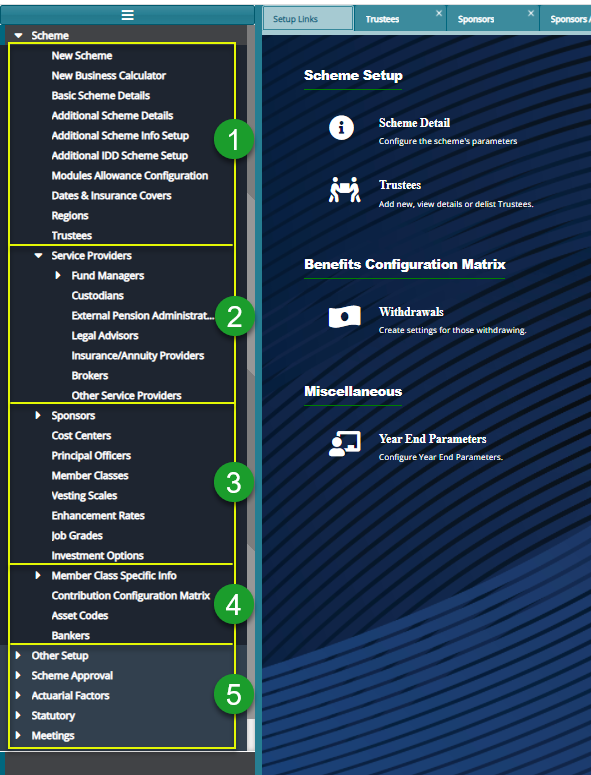
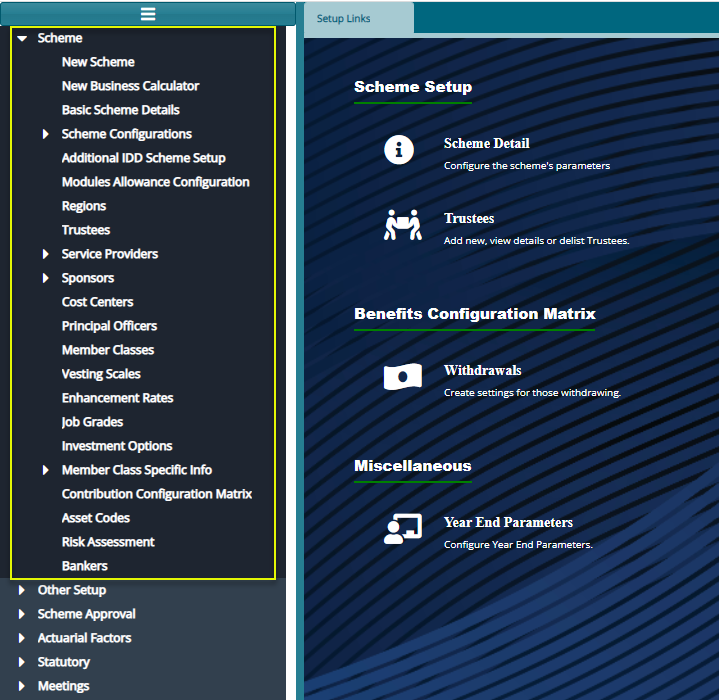
scheme congif changes

diff --git a/schemesetup/schemeSetupProcess.md b/schemesetup/schemeSetupProcess.md
@@ -88,6 +88,57 @@ Note: If you modify any items, remember to click the **Save** button to reflect 
 
 <img  alt="basic scheme details form" width="80%" height="auto"  class="center"  src="../media2/schemeM74.png"> 
 
+
+## Scheme configurations
+
+These are some of the key configurations that need to be set for the scheme to execute effectively. The screenshot below shows the locations links within the scheme setup sidebar panel:
+
+<img  alt="Scheme configurations" width="100%" height="auto"  class="center"  src="../media2/scheme82.jpg">  
+
+
+### Specific configs
+
+Click the **Scheme Setup Configurations** link to open the scheme configurations dialog box and set the required parameters as shown below:
+
+<img  alt="Scheme Setup Configurations" width="80%" height="auto"  class="center"  src="../media2/scheme83.jpg">  
+
+
+### Member Configurations
+
+Click the **Member Configurations** link to open the members configurations dialog box and set the required parameters as shown below:
+
+<img  alt="Member Configurations" width="80%" height="auto"  class="center"  src="../media2/scheme84.jpg">  
+
+
+### Contribution and balances Configurations
+
+Click the **Contributions and balances Configurations** link to open the contributions and balances Configurations dialog box and set the required parameters as shown below:
+
+<img  alt="Contributions and balances Configurations" width="80%" height="auto"  class="center"  src="../media2/scheme85.jpg">
+
+
+### Claim and Pensioners Configurations
+
+Click the **Claims and Pensioners Configurations** link to open the claims and pensioners configurations dialog box and set the required parameters as shown below:
+
+<img  alt="claims and Pensioners Configurations" width="80%" height="auto"  class="center"  src="../media2/scheme86.jpg">  
+
+
+### Scheme Dates and Insurance covers Configurations
+
+Click the **Scheme Dates and Insurance covers Configurations** link to open the scheme dates and insurance covers configurations dialog box and set the required parameters as shown below:
+
+<img  alt="Scheme Dates and Insurance covers Configurations" width="80%" height="auto"  class="center"  src="../media2/scheme87.jpg">  
+
+
+### Benefits Configurations
+
+Click the **Benefits Configurations** link to open the benefits configurations matrix dialog box and set the required parameters as shown below:
+
+<img  alt="Benefits Configurations" width="95%" height="auto"  class="center"  src="../media2/scheme88.jpg">  
+
+
+
 ## Additional Scheme Info Setup
 
 This is another set of particulars of a Scheme. Parameters to inform **Contributions and Interest Calculations** are configured here. Click the **Additional Schemes Info Setup** link, as shown previously, to launch the dialogue box as shown in the next screenshot.

diff --git a/schemesetup/introduction.md b/schemesetup/introduction.md
@@ -28,12 +28,4 @@ Note that the links are arranged into categories making the order of configurati
 
 **Action**
 
--   Click a link under the section **labeled 1** to open a window via which specific new scheme setting can be configured.
-
--   Click a link under the section **labeled 2** to open a window via which a new Scheme Service Provider details can be captured.
-
--   Click a link under the section **labeled 3** to open a window via which Scheme Sponsors and Sponsor related information can be captured.
-
--   Clicking a link under the section **labeled 4** will open a window via which a Scheme Members related information e.g., Member Classes can be created.
-
--   Clicking a link under the section **labeled 5** will open a window via which Other Ocheme setting can be configured.
+-	Click a link under the left side panel to open a dialogue box through which a specific scheme setting can be configured.
